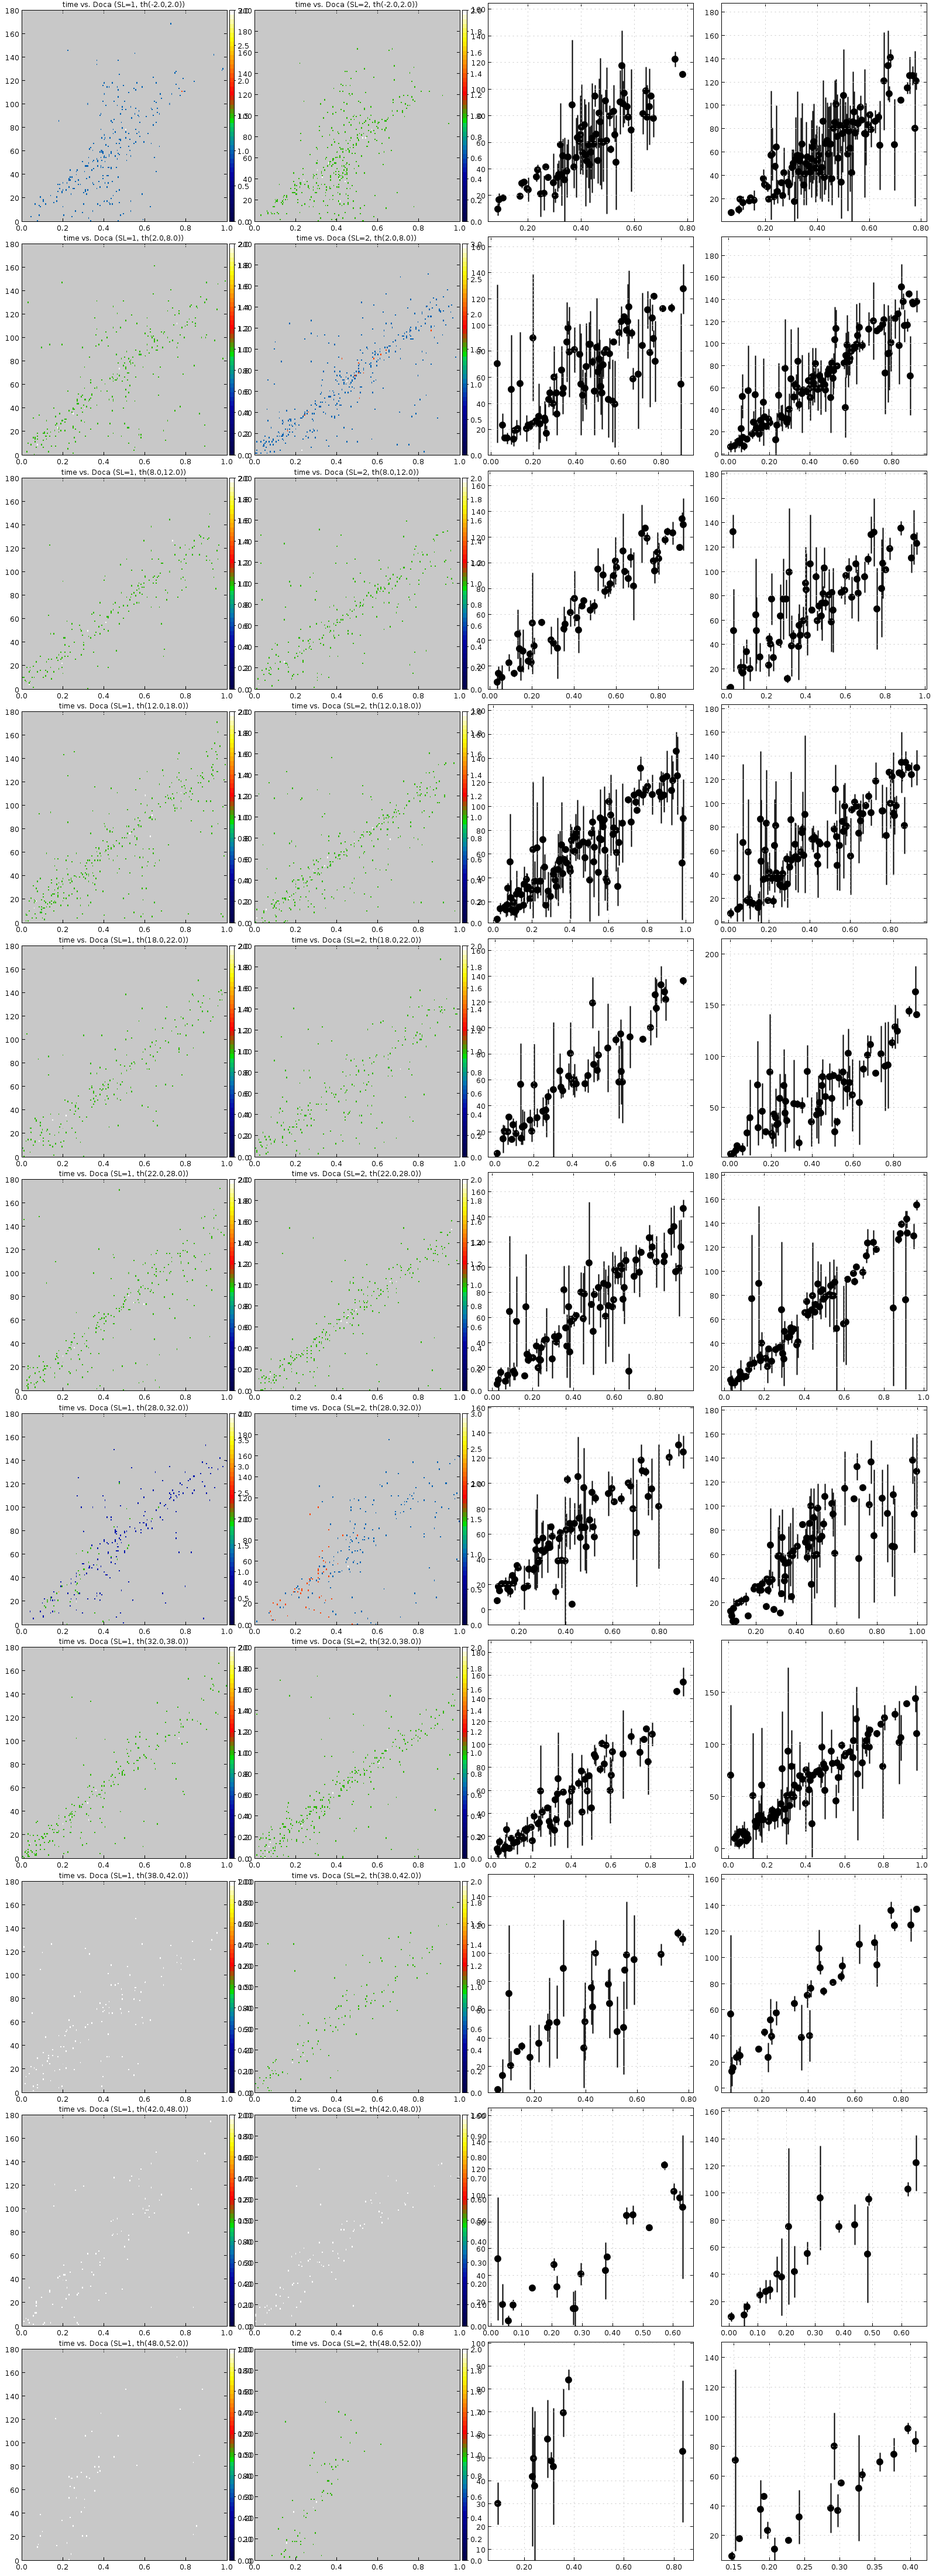
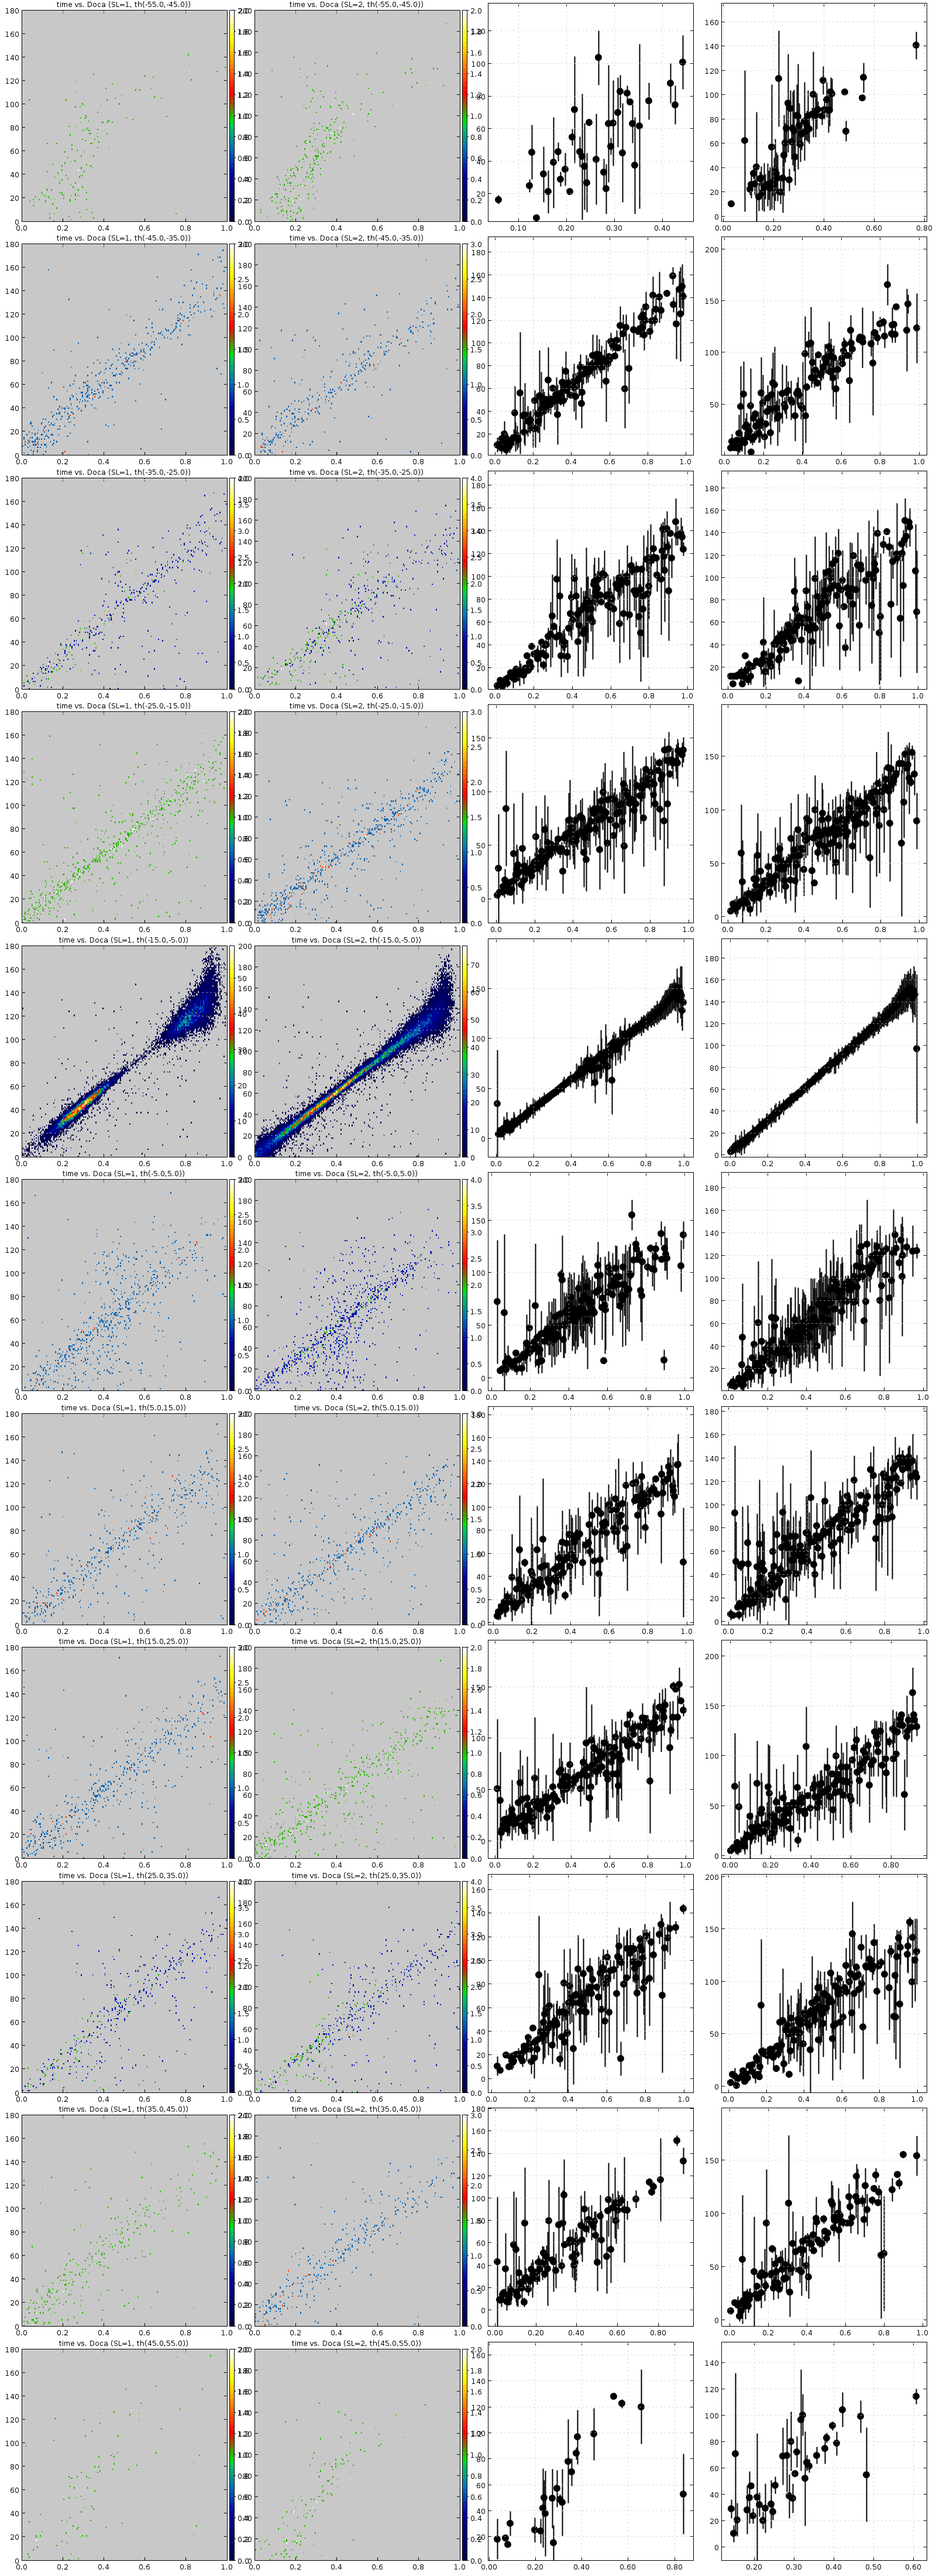
changed theta (alpha) binning again, this time to include -ve angles (goes from -55.0 to 55.0)

diff --git a/src/org/jlab/dc_calibration/domain/TimeToDistanceFitter.java b/src/org/jlab/dc_calibration/domain/TimeToDistanceFitter.java
@@ -697,12 +697,19 @@ public class TimeToDistanceFitter implements ActionListener, Runnable {
 
                 canvasPlace++;
 
-                sector1n.draw(h2timeVtrkDoca2.get(new Coordinate(0, j, k))); sector1n.draw(f1, "same");                
-                sector2n.draw(h2timeVtrkDoca2.get(new Coordinate(1, j, k))); sector2n.draw(f1, "same");
-                sector3n.draw(h2timeVtrkDoca2.get(new Coordinate(2, j, k))); sector3n.draw(f2, "same");
-                sector4n.draw(h2timeVtrkDoca2.get(new Coordinate(3, j, k))); sector4n.draw(f2, "same");
-                sector5n.draw(h2timeVtrkDoca2.get(new Coordinate(4, j, k))); sector5n.draw(f3, "same");
-                sector6n.draw(h2timeVtrkDoca2.get(new Coordinate(5, j, k))); sector6n.draw(f3, "same");
+                sector1n.draw(h2timeVtrkDoca2.get(new Coordinate(0, j, k)));                 
+                sector2n.draw(h2timeVtrkDoca2.get(new Coordinate(1, j, k))); 
+                sector3n.draw(h2timeVtrkDoca2.get(new Coordinate(2, j, k))); 
+                sector4n.draw(h2timeVtrkDoca2.get(new Coordinate(3, j, k))); 
+                sector5n.draw(h2timeVtrkDoca2.get(new Coordinate(4, j, k))); 
+                sector6n.draw(h2timeVtrkDoca2.get(new Coordinate(5, j, k))); 
+                
+                if(j<2) sector1n.draw(f1, "same"); else if(j>1 && j<4) sector1n.draw(f2, "same"); else sector1n.draw(f3, "same");
+                if(j<2) sector2n.draw(f1, "same"); else if(j>1 && j<4) sector2n.draw(f2, "same"); else sector2n.draw(f3, "same");
+                if(j<2) sector3n.draw(f1, "same"); else if(j>1 && j<4) sector3n.draw(f2, "same"); else sector3n.draw(f3, "same");
+                if(j<2) sector4n.draw(f1, "same"); else if(j>1 && j<4) sector4n.draw(f2, "same"); else sector4n.draw(f3, "same");
+                if(j<2) sector5n.draw(f1, "same"); else if(j>1 && j<4) sector5n.draw(f2, "same"); else sector5n.draw(f3, "same");
+                if(j<2) sector6n.draw(f1, "same"); else if(j>1 && j<4) sector6n.draw(f2, "same"); else sector6n.draw(f3, "same");
             }
         }
         // 10/4/16: Trying to make plot of residuals for each superlayer

diff --git a/src/org/jlab/dc_calibration/domain/Constants.java b/src/org/jlab/dc_calibration/domain/Constants.java
@@ -23,9 +23,12 @@ public final class Constants {
 	//protected static final int nThBinsVz = 6; // [nThBinsVZ][2]
 	//protected static final double[] thEdgeVzL = { -2.0, 8.0, 18.0, 28.0, 38.0, 48.0 };
 	//protected static final double[] thEdgeVzH = { 2.0, 12.0, 22.0, 32.0, 42.0, 52.0 };
+	//protected static final int nThBinsVz = 11; // [nThBinsVZ][2]
+	//protected static final double[] thEdgeVzL = { -2.0, 2.0, 8.0, 12.0, 18.0, 22.0, 28.0, 32.0, 38.0, 42.0, 48.0 };
+	//protected static final double[] thEdgeVzH = { 2.0, 8.0, 12.0, 18.0, 22.0, 28.0, 32.0, 38.0, 42.0, 48.0, 52.0 };
 	protected static final int nThBinsVz = 11; // [nThBinsVZ][2]
-	protected static final double[] thEdgeVzL = { -2.0, 2.0, 8.0, 12.0, 18.0, 22.0, 28.0, 32.0, 38.0, 42.0, 48.0 };
-	protected static final double[] thEdgeVzH = { 2.0, 8.0, 12.0, 18.0, 22.0, 28.0, 32.0, 38.0, 42.0, 48.0, 52.0 };
+	protected static final double[] thEdgeVzL = { -55.0, -45, -35.0, -25.0, -15.0, -5.0, 5.0,  15.0, 25.0, 35.0, 45.0 };
+	protected static final double[] thEdgeVzH = { -45.0, -35, -25.0, -15.0, -5.0,  5.0,  15.0, 25.0, 35.0, 45.0, 55.0 };
 	protected static final double[] wpdist = { 0.3861, 0.4042, 0.6219, 0.6586, 0.9351, 0.9780 };
 
 	protected static final int nSL = 6;
